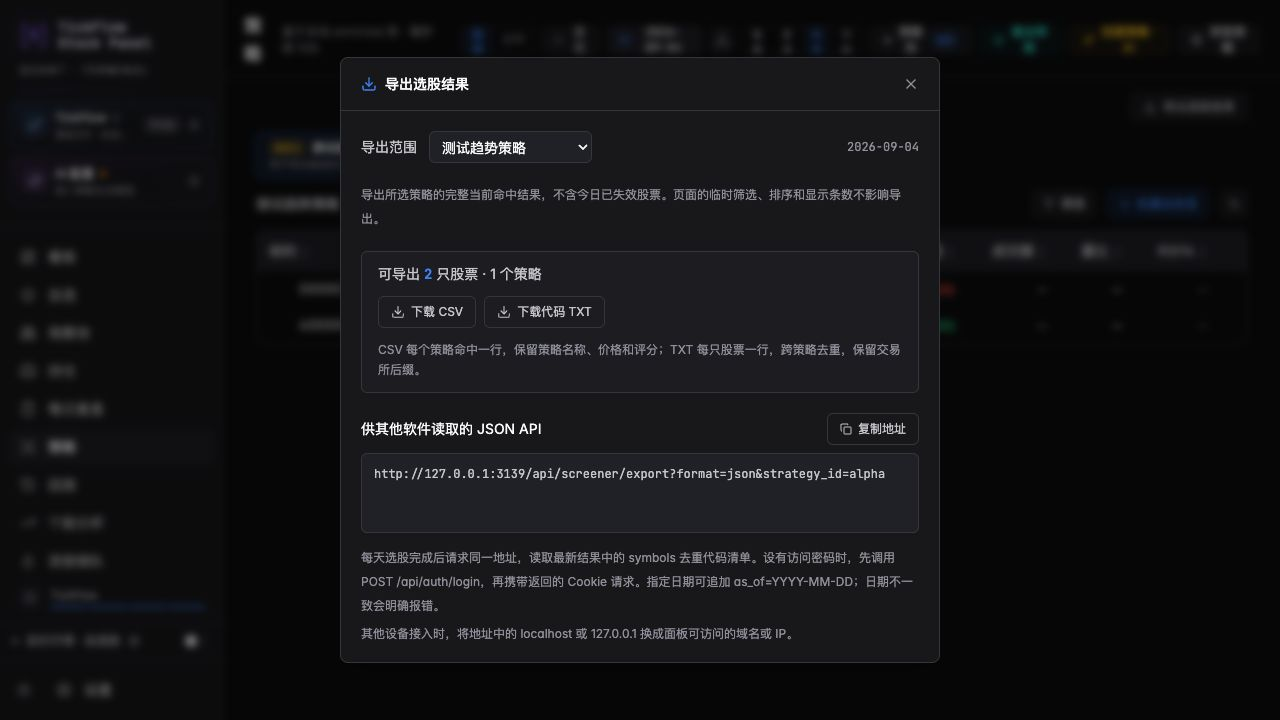
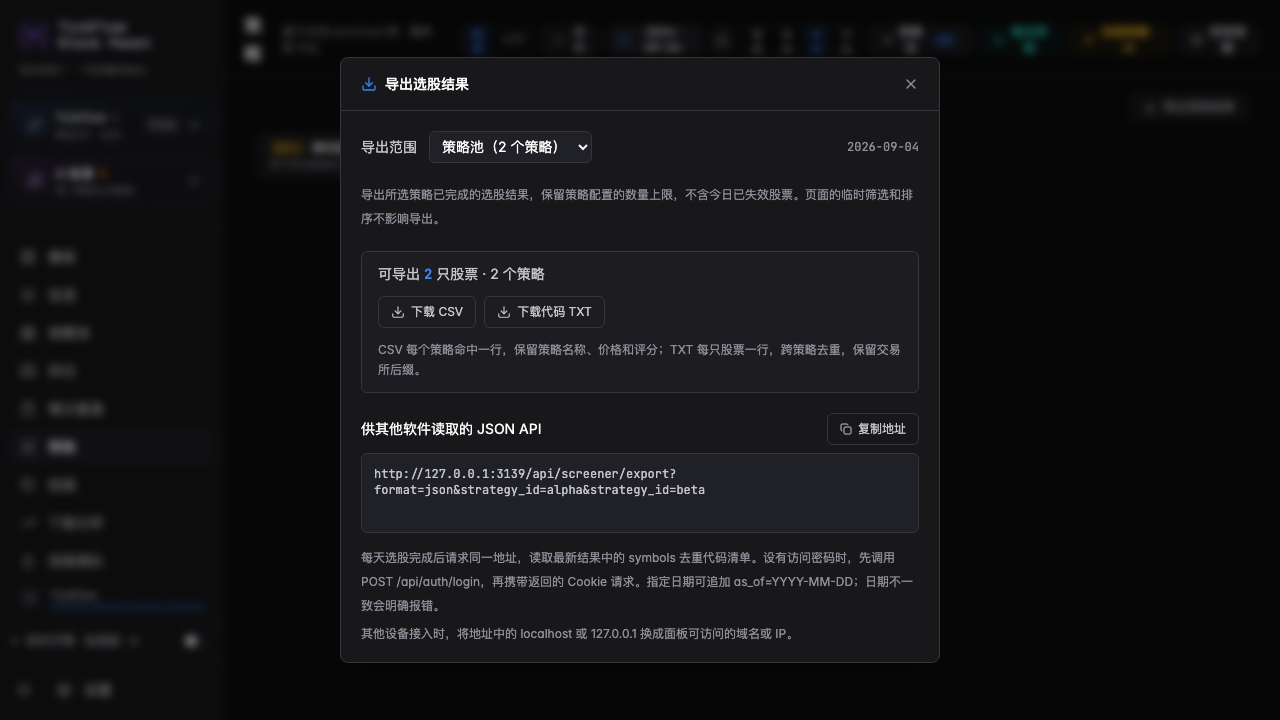
fix: 明确导出保留策略结果数量上限

diff --git a/frontend/src/components/screener/ScreenerExportDialog.tsx b/frontend/src/components/screener/ScreenerExportDialog.tsx
@@ -70,7 +70,7 @@ export function ScreenerExportDialog({ asOf, activeStrategy, strategyNames, pool
           </label>
           <span className="text-xs text-muted num">{asOf || '未选择日期'}</span>
         </div>
-        <p className="text-xs leading-6 text-muted">导出所选策略的完整当前命中结果，不含今日已失效股票。页面的临时筛选、排序和显示条数不影响导出。</p>
+        <p className="text-xs leading-6 text-muted">导出所选策略已完成的选股结果，保留策略配置的数量上限，不含今日已失效股票。页面的临时筛选和排序不影响导出。</p>
         <div className="rounded-btn border border-border bg-elevated/50 px-4 py-3 space-y-3">
           {!ready ? <p className="text-muted">请先选择日期并向策略池添加策略。</p>
             : busy ? <p role="status" className="text-muted">{download.isPending ? '正在生成文件…' : '正在读取选股结果…'}</p>

diff --git a/backend/tests/test_screener_export.py b/backend/tests/test_screener_export.py
@@ -371,3 +371,41 @@ def test_rule_publication_cannot_pair_old_rule_with_new_version(client, monkeypa
         worker.join(timeout=5)
     assert not worker.is_alive()
     assert client.get("/api/screener/export").status_code == 404
+
+
+@pytest.mark.parametrize(("overrides", "expected_count"), [
+    ({}, 2), ({"display_limit": 3}, 3), ({"display_limit": None}, 5),
+])
+@pytest.mark.parametrize("format", ["json", "csv", "txt"])
+def test_export_matches_real_engine_result_limits(client, monkeypatch, overrides, expected_count, format):
+    import polars as pl
+
+    from app.strategy.engine import StrategyDataContext, StrategyDef, StrategyEngine
+
+    engine = StrategyEngine(strategy_dirs=[])
+    engine._strategies["alpha"] = StrategyDef(
+        meta={"id": "alpha", "name": "合成策略", "limit": 2, "scoring": {}},
+        basic_filter={"enabled": False}, entry_signals=[], exit_signals=[],
+        stop_loss=None, trailing_stop=None, trailing_take_profit_activate=None,
+        trailing_take_profit_drawdown=None, max_hold_days=None, alerts=[],
+        filter_fn=lambda df, params: pl.col("close") > 0, filter_history_fn=None,
+        lookback_days=1, source="custom",
+    )
+    client.app.state.strategy_engine = engine
+    quotes = pl.DataFrame({"symbol": [f"{i:06d}.SZ" for i in range(1, 6)], "close": [10.] * 5})
+    context = StrategyDataContext("stock", "1d", date.fromisoformat(DAY), current=quotes)
+    monkeypatch.setattr(api.ScreenerService, "build_strategy_context", lambda *_, **__: context)
+    monkeypatch.setattr(api.strategy_config, "load_override", lambda *_: overrides)
+    run = client.post("/api/screener/run_preset", json={"strategy_id": "alpha", "as_of": DAY})
+    assert run.status_code == 200
+    selected = [row["symbol"] for row in run.json()["rows"]]
+    assert len(selected) == expected_count
+    exported = client.get("/api/screener/export", params={"format": format})
+    assert exported.status_code == 200
+    if format == "json":
+        assert exported.json()["symbols"] == selected
+    elif format == "csv":
+        rows = csv.DictReader(io.StringIO(exported.content.decode("utf-8-sig")))
+        assert [row["symbol"] for row in rows] == selected
+    else:
+        assert exported.text.splitlines() == selected

diff --git a/docs/screener-export.md b/docs/screener-export.md
@@ -2,7 +2,9 @@
 
 在「策略」页点击「导出选股结果」，选择当前策略或策略池，下载 CSV 或代码 TXT。当前支持股票日线策略。
 
-导出包含所选策略的完整当前命中结果，不含今日曾命中但已失效的股票；页面的临时筛选、排序和显示条数不影响导出。CSV 每个策略命中一行，同一股票命中两个策略时保留两行及各自评分；TXT 和 JSON 的 `symbols` 跨策略去重。
+导出包含所选策略已经完成的选股结果，保留策略配置的数量上限，不含今日曾命中但已失效的股票；页面的临时筛选和排序不影响导出。CSV 每个策略命中一行，同一股票命中两个策略时保留两行及各自评分；TXT 和 JSON 的 `symbols` 跨策略去重。
+
+策略的 `META.limit` 或 `display_limit` 会在引擎生成结果时生效，属于本次已完成结果的数量口径。例如满足筛选条件的候选有 120 只、策略设置最多返回 50 只，则运行结果与导出均为 50 只。需要更多结果时，先在策略设置中调整数量上限并重新运行；接口不会自行扩大候选集或重新计算。下文“完整范围”指未限定监控代码或运行股票池，仍保留策略本身的数量上限。
 
 升级后首次导出如果提示缓存缺少股票日线标记或完整范围，点击「重载」重新运行策略。旧缓存仍可在原页面读取，但导出需要明确的资产、周期和完整范围标记，避免旧版本 ETF 或限定股票池的运行结果混入清单。
 
